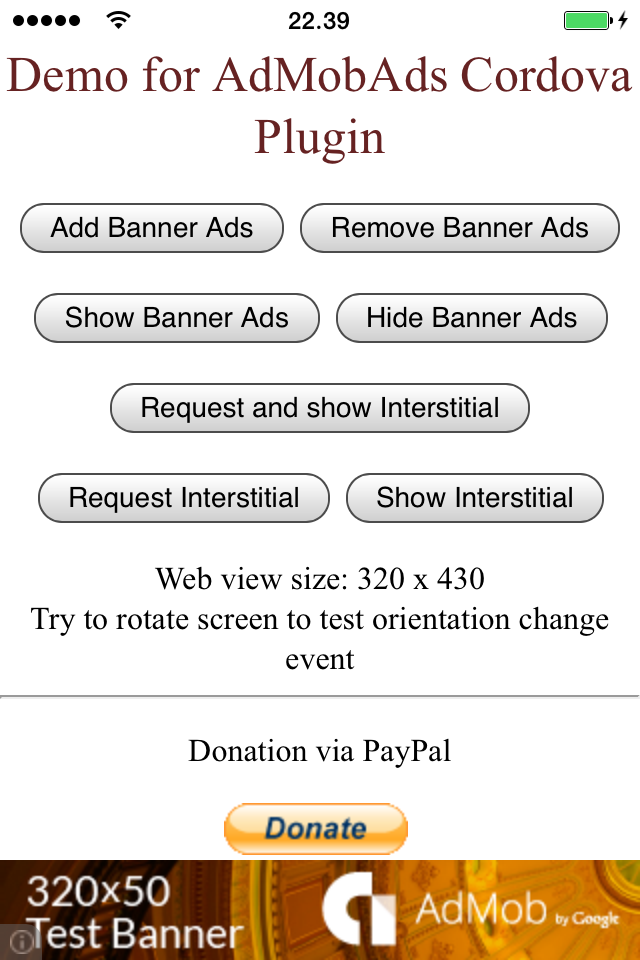
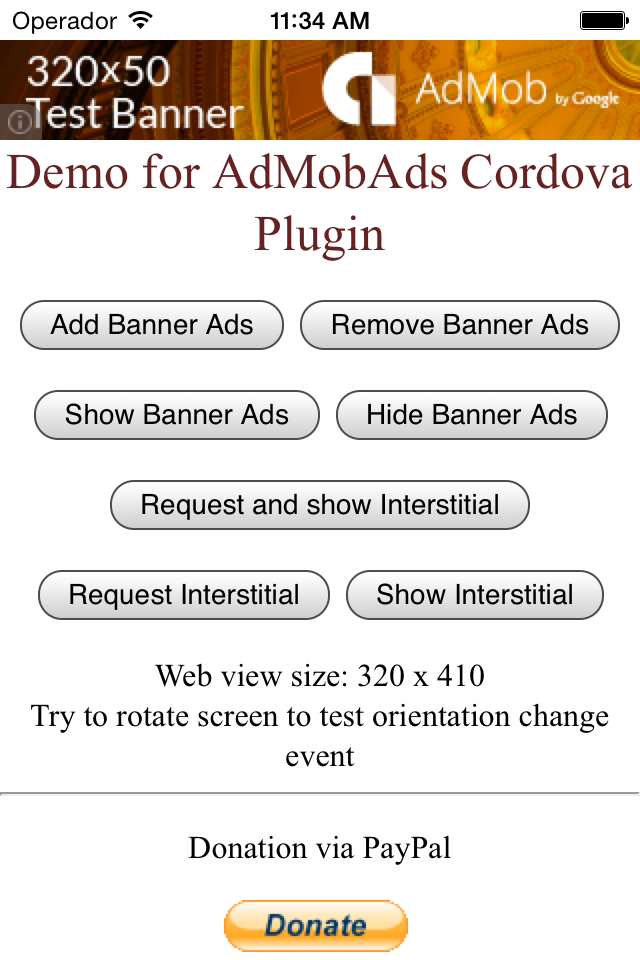
Improved test app Added screenshots for ipad

diff --git a/test/js/index.js b/test/js/index.js
@@ -1,42 +1,16 @@
 var app = {
   // global vars
-  showNextInterstitialInterval: undefined,
+  autoShowInterstitial: false,
+  
   // Application Constructor
   initialize: function () {
-    this.bindEvents();
-  },
-  // Bind Event Listeners
-  bindEvents: function () {
     if (( /(ipad|iphone|ipod|android)/i.test(navigator.userAgent) )) {
       document.addEventListener('deviceready', this.onDeviceReady, false);
     } else {
-      this.onDeviceReady();
-    }
-    document.addEventListener(admob.events.onAdLoaded, this.onAdLoaded, false);
-    document.addEventListener(admob.events.onAdFailedToLoad, function (e) {}, false);
-    document.addEventListener(admob.events.onAdOpened, function (e) {}, false);
-    document.addEventListener(admob.events.onAdClosed, function (e) {}, false);
-    document.addEventListener(admob.events.onAdLeftApplication, function (e) {}, false);
-    document.addEventListener(admob.events.onInAppPurchaseRequested, function (e) {}, false);
-  },
-  // deviceready Event Handler
-  //
-  // The scope of 'this' is the event. In order to call the 'receivedEvent'
-  // function, we must explicitly call 'app.receivedEvent(...);'
-  onDeviceReady: function () {
-    document.removeEventListener('deviceready', app.onDeviceReady, false);
-    app.initAds();
-  },
-  onAdLoaded: function (e) {
-    if (e.adType === admob.AD_TYPE.INTERSTITIAL) {
-      admob.showInterstitialAd();
-      if (app.showNextInterstitialInterval === undefined) {
-        app.showNextInterstitialInterval = setInterval(function() {
-          admob.requestInterstitialAd();
-        }, 2 * 60 * 1000); // 2 minutes
-      }
+      app.onDeviceReady();
     }
   },
+  // Must be called when deviceready is fired so AdMobAds plugin will be ready
   initAds: function () {
     if (admob) {
       var isAndroid = (/(android)/i.test(navigator.userAgent));
@@ -61,12 +35,12 @@ var app = {
       admob.setOptions({
         publisherId: admobid.banner,
         interstitialAdId: admobid.interstitial,
-        bannerAtTop: false, // set to true, to put banner at top
+        bannerAtTop: true, // set to true, to put banner at top
         overlap: false, // set to true, to allow banner overlap webview
-        offsetTopBar: false, // set to true to avoid ios7 status bar overlap
-        isTesting: false, // receiving test ads (do not test with real ads as your account will be banned)
+        offsetStatusBar: true, // set to true to avoid ios7 status bar overlap
+        isTesting: true, // receiving test ads (do not test with real ads as your account will be banned)
         autoShowBanner: true, // auto show banners ad when loaded
-        autoShowInterstitial: true // auto show interstitials ad when loaded
+        autoShowInterstitial: false // auto show interstitials ad when loaded
       });
 
       registerAdEvents();
@@ -75,8 +49,74 @@ var app = {
       alert('AdMobAds plugin not ready');
     }
   },
+  // Bind Event Listeners
+  bindEvents: function () {
+    document.addEventListener("orientationchange", this.onOrientationChange, false);
+    document.addEventListener(admob.events.onAdLoaded, this.onAdLoaded, false);
+    document.addEventListener(admob.events.onAdFailedToLoad, this.onAdFailedToLoad, false);
+    document.addEventListener(admob.events.onAdOpened, function (e) {}, false);
+    document.addEventListener(admob.events.onAdClosed, function (e) {}, false);
+    document.addEventListener(admob.events.onAdLeftApplication, function (e) {}, false);
+    document.addEventListener(admob.events.onInAppPurchaseRequested, function (e) {}, false);
+  },
+  
+  // -----------------------------------
+  // Events.
+  // The scope of 'this' is the event.
+  // -----------------------------------
+  onOrientationChange: function () {
+    app.onResize();
+  },
+  onDeviceReady: function () {
+    document.removeEventListener('deviceready', app.onDeviceReady, false);
+    app.bindEvents();
+    app.initAds();
+  },
+  onAdLoaded: function (e) {
+    if (e.adType === admob.AD_TYPE.INTERSTITIAL) {
+      if (app.autoShowInterstitial) {
+        admob.showInterstitialAd();
+      } else {
+        alert("Interstitial is available");
+      }
+    }
+  },
+  onAdFailedToLoad: function(e) {
+    alert("Could not load ad: " + JSON.stringify(e));
+  },
   onResize: function () {
     var msg = 'Web view size: ' + window.innerWidth + ' x ' + window.innerHeight;
     document.getElementById('sizeinfo').innerHTML = msg;
+  },
+  
+  // -----------------------------------
+  // App buttons functionality
+  // -----------------------------------
+  addBannerAds: function () {
+    admob.createBannerView(function (){}, function (e) {
+      alert(JSON.stringify(e));
+    });
+  },
+  removeBannerAds: function () {
+    admob.destroyBannerView();
+  },
+  showBannerAd: function () {
+    admob.showBannerAd(true, function (){}, function (e) {
+      alert(JSON.stringify(e));
+    });
+  },
+  hideBannerAd: function () {
+    admob.showBannerAd(false);
+  },
+  requestInterstitial: function (autoshow) {
+    app.autoShowInterstitial = autoshow;
+    admob.requestInterstitialAd(function (){}, function (e) {
+      alert(JSON.stringify(e));
+    });
+  },
+  showInterstitial: function() {
+    admob.showInterstitialAd(function (){}, function (e) {
+      alert(JSON.stringify(e));
+    });
   }
 };

diff --git a/test/index.html b/test/index.html
@@ -5,7 +5,7 @@
     <meta name="format-detection" content="telephone=no" />
     <!-- WARNING: for iOS 7, remove the width=device-width and height=device-height attributes. See https://issues.apache.org/jira/browse/CB-4323 -->
     <!--meta name="viewport" content="user-scalable=no, initial-scale=1, maximum-scale=1, minimum-scale=1, width=device-width, height=device-height, target-densitydpi=device-dpi" /-->
-    <meta name="viewport" content="user-scalable=no, initial-scale=1, maximum-scale=1, minimum-scale=1, target-densitydpi=device-dpi" />
+    <meta name="viewport" content="user-scalable=no, initial-scale=1, maximum-scale=1, minimum-scale=1, width=device-width, target-densitydpi=device-dpi" />
     <link rel="stylesheet" type="text/css" href="css/index.css" />
     <meta name="msapplication-tap-highlight" content="no" />
     <title>Hello World</title>
@@ -14,20 +14,24 @@
     <div id="fullpage" class="app">
       <h1>Demo for AdMobAds Cordova Plugin</h1>
       <p>
-        <button onclick="admob.createBannerView();">Show Banner Ads</button>
-        <button onclick="admob.destroyBannerView();">Remove Banner Ads</button>
+        <button onclick="app.addBannerAds()">Add Banner Ads</button>
+        <button onclick="app.removeBannerAds()">Remove Banner Ads</button>
       </p>
       <p>
-        <button onclick="admob.showBannerAd(false);">Hide Banner Ads</button>
-        <button onclick="admob.showBannerAd(true, function (){ console.log('showInterstitialAd succeeded'); }, function (e){ alert(JSON.stringify(e)); });">Show Banner Ads</button>
+        <button onclick="app.showBannerAds()">Show Banner Ads</button>
+        <button onclick="app.hideBannerAds()">Hide Banner Ads</button>
       </p>
       <p>
-        <button onclick="admob.requestInterstitialAd();">Request Interstitial Ad</button>
-        <button onclick="admob.showInterstitialAd(true, function () { console.log('showInterstitialAd succeeded'); }, function (e){ alert(JSON.stringify(e)); });">Show Interstitial Ad</button>
+        <button onclick="app.requestAndShowInterstitial(true)">Request and show Interstitial</button>
+      </p>
+      <p>
+        <button onclick="app.requestInterstitial(false)">Request Interstitial</button>
+        <button onclick="app.showInterstitial()">Show Interstitial</button>
       </p>
       
+      
       <div id="sizeinfo">width * height</div>
-      <div>Try rotate screen to test the orientation change</div>
+      <div>Try to rotate screen to test orientation change event</div>
 
       <hr>
       

diff --git a/README.md b/README.md
@@ -153,3 +153,15 @@ iPhone Banner:
 iPhone Interstitial:
 
 ![ScreenShot](demo/interstitial-iphone.png)
+
+iPad Banner Portrait:
+
+![ScreenShot](demo/banner-ipad.png)
+
+iPad Banner Landscape:
+
+![ScreenShot](demo/banner-landscape-ipad.png)
+
+ipad Interstitial:
+
+![ScreenShot](demo/interstitial-ipad.png)
